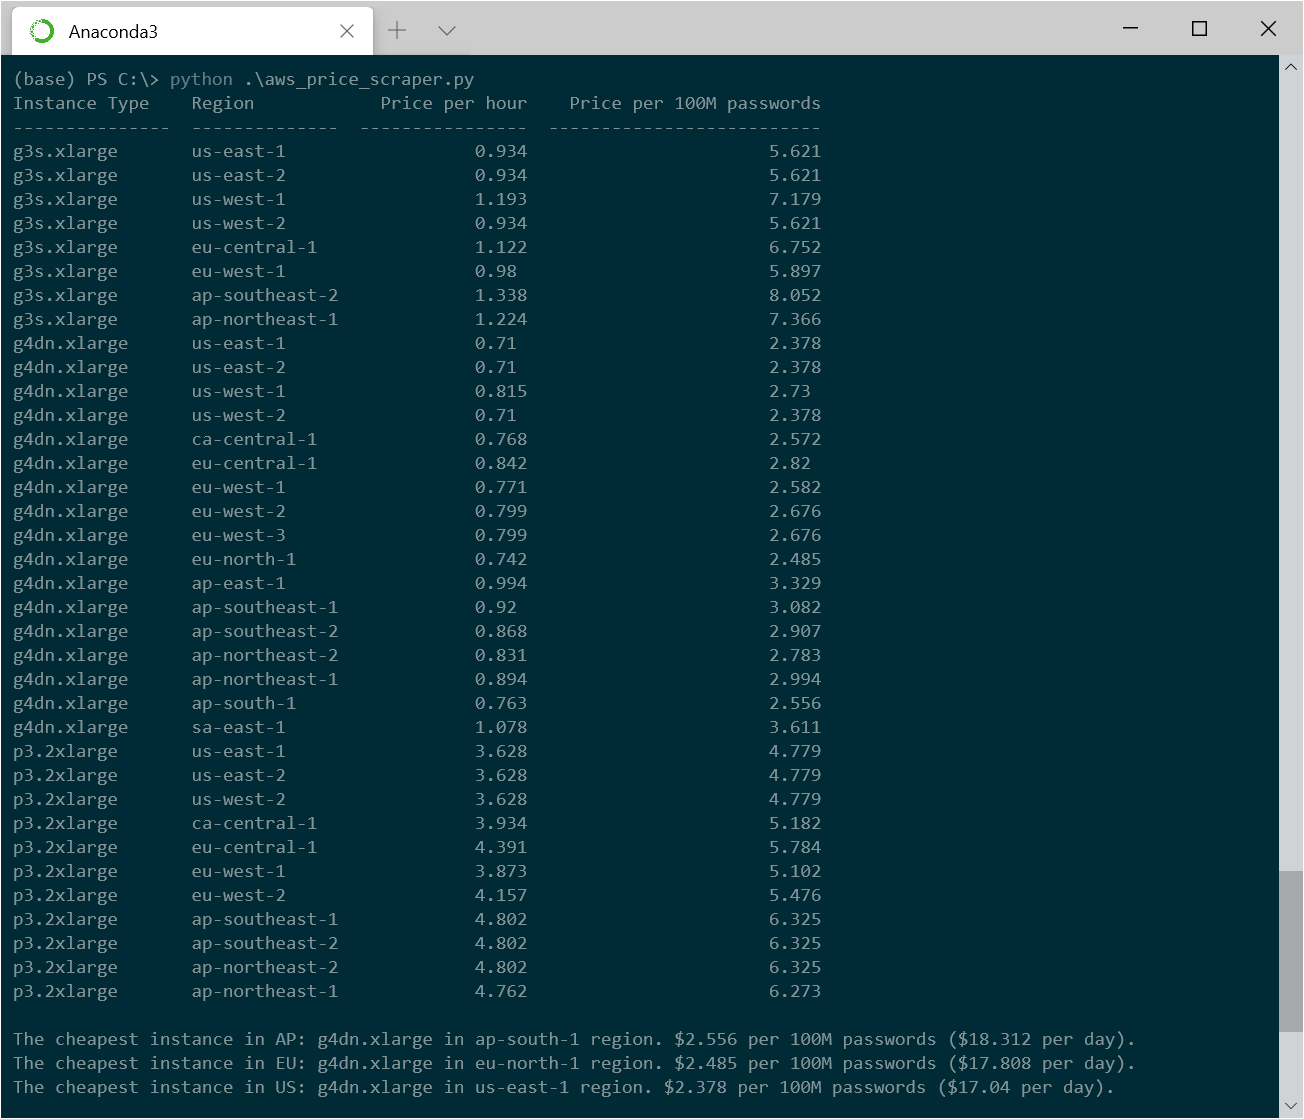
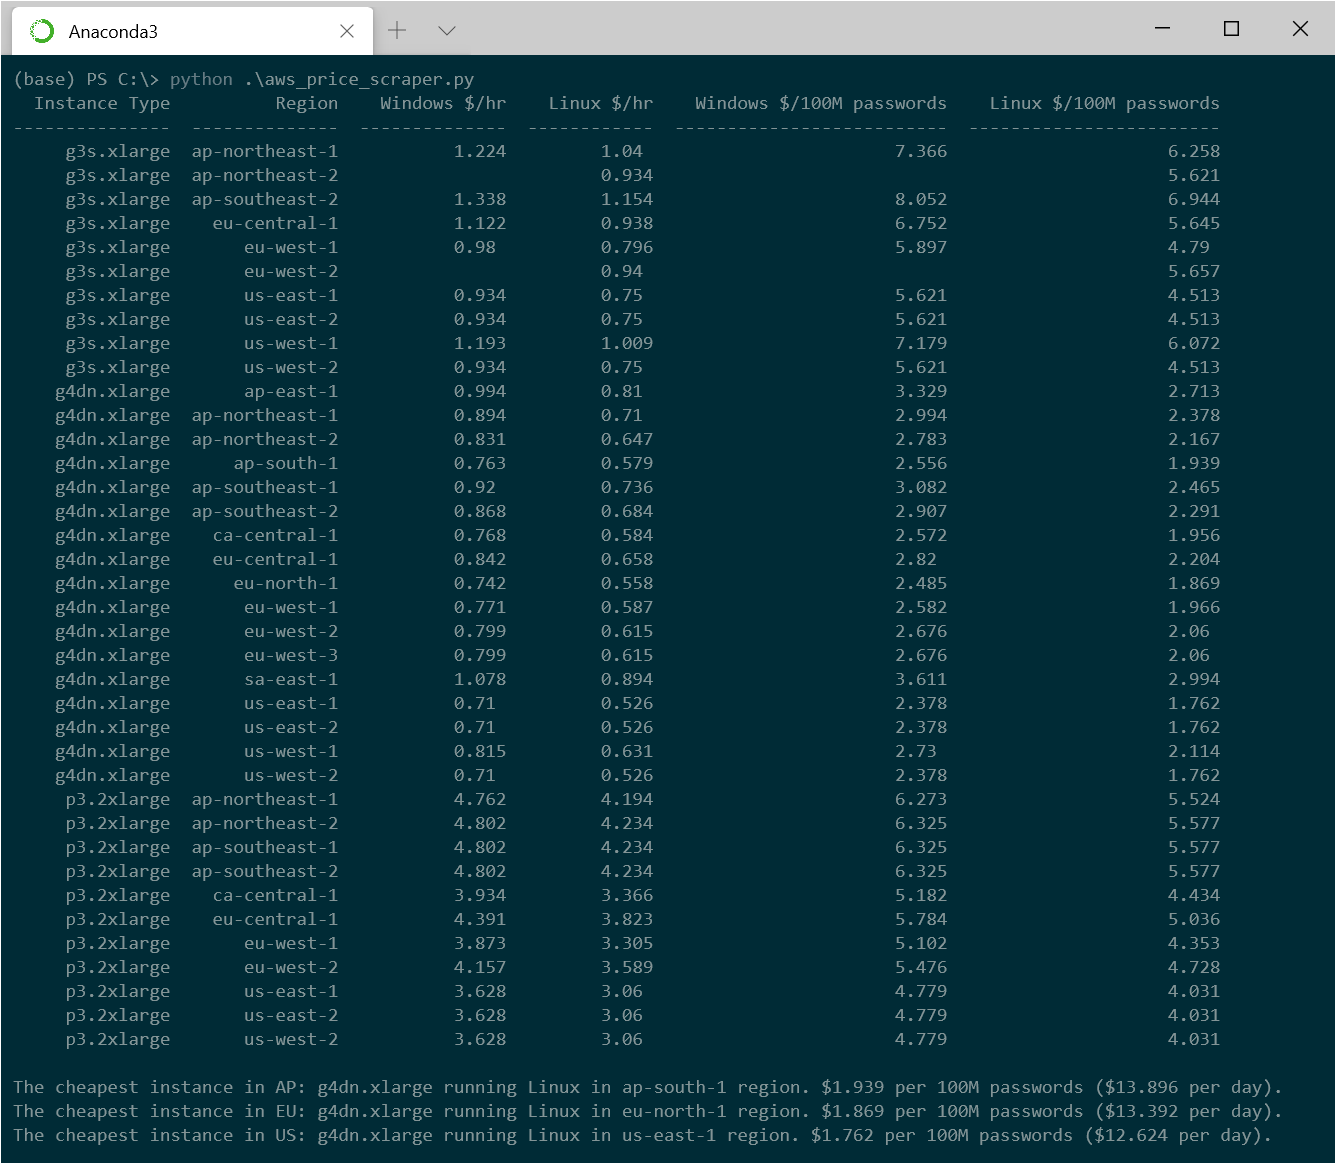
Added support for Linux-based instances

diff --git a/aws_price_scraper.py b/aws_price_scraper.py
@@ -14,7 +14,7 @@ except:
 	print('Install tabulate with "pip3 install tabulate"')
 	quit()
 
-def get_prices(AMI, instanceType, performance):
+def get_prices(instanceType, OS, AMI, performance):
 	
 	req = urllib.request.Request(
 		AMI, 
@@ -25,53 +25,99 @@ def get_prices(AMI, instanceType, performance):
 	)
 	
 	page = urllib.request.urlopen(req)
-	
 	page_content = page.read().decode('utf-8')
-	
 	cd = page_content[page_content.find('/*<![CDATA[*/') + 13:page_content.find('/*]]>*/',page_content.find('/*<![CDATA[*/') + 13)]
-	
 	productId = cd[cd.find('productId: "') + 12:cd.find('"',cd.find('productId: "') + 12)]
-	
 	hjson_string = cd[cd.find('var awsmpInitialState = ') + 24:cd.find('};',cd.find('var awsmpInitialState = ') + 24) + 1]
-	
 	hjson_dict = hjson.loads(hjson_string)
-	
-	prices = {}
 	
 	for region in hjson_dict['offerIon']['offer']['pricing']['regions']:
 		for idx, row in enumerate(hjson_dict['offerIon']['offer']['pricing']['regions'][region][productId]['hourly']['displayElements']['properties']['rows']):
 			if hjson_dict['offerIon']['offer']['pricing']['regions'][region][productId]['hourly']['displayElements']['properties']['rows'][idx]['instanceType'] == instanceType:
 				hourly_rate = float(hjson_dict['offerIon']['offer']['pricing']['regions'][region][productId]['hourly']['displayElements']['properties']['rows'][idx]['totalRate'])
-				results.append([instanceType, region, hourly_rate, round((100000000/performance)*(hourly_rate/3600), 3)])
+				instanceRegion = instanceType + region
+				try:
+					idx = [instanceRegion for instanceRegion, InstanceType, Region, WindowsHourly, LinuxHourly, Windows100M, Linux100M in results].index(instanceRegion)
+					if OS == 'Windows':
+						results[idx][3] = hourly_rate
+						results[idx][5] = round((100000000/performance)*(hourly_rate/3600), 3)
+					else:
+						results[idx][4] = hourly_rate
+						results[idx][6] = round((100000000/performance)*(hourly_rate/3600), 3)
+				except:
+					if OS == 'Windows':
+						results.append([instanceRegion, instanceType, region, hourly_rate, '', round((100000000/performance)*(hourly_rate/3600), 3), ''])
+					else:
+						results.append([instanceRegion, instanceType, region, '', hourly_rate, '', round((100000000/performance)*(hourly_rate/3600), 3)])
 
-results_headers = ['Instance Type', 'Region', 'Price per hour', 'Price per 100M passwords']
+results_headers = ['Instance Type', 'Region', 'Windows $/hr', 'Linux $/hr', 'Windows $/100M passwords', 'Linux $/100M passwords']
 results = []
 
-get_prices('https://aws.amazon.com/marketplace/pp/B073WHLGMC', 'g3s.xlarge',  4616)
-get_prices('https://aws.amazon.com/marketplace/pp/B07TS3S3ZH', 'g4dn.xlarge',  8293)
-get_prices('https://aws.amazon.com/marketplace/pp/B07TS3S3ZH', 'p3.2xlarge',  21088)
+instances = [
+#Instance Type, OS, AMI link, Performance (passwords per second when cracking a Word 2019 document)
+['g3s.xlarge', 'Windows', 'https://aws.amazon.com/marketplace/pp/B073WHLGMC', 4616],
+['g3s.xlarge', 'Linux', 'https://aws.amazon.com/marketplace/pp/B07CQ33QKV', 4616],
+['g4dn.xlarge', 'Windows', 'https://aws.amazon.com/marketplace/pp/B07TS3S3ZH', 8293],
+['g4dn.xlarge', 'Linux', 'https://aws.amazon.com/marketplace/pp/B07YV3B14W', 8293],
+['p3.2xlarge', 'Linux', 'https://aws.amazon.com/marketplace/pp/B07CQ33QKV', 21088],
+['p3.2xlarge', 'Windows', 'https://aws.amazon.com/marketplace/pp/B07TS3S3ZH', 21088]
+]
 
-print(tabulate(results, headers = results_headers))
+for instance in instances:
+	get_prices(instance[0], instance[1], instance[2], instance[3], )
 
-index_ap = 0
-index_eu = 0
-index_us = 0
-cheapest_ap = 999
-cheapest_eu = 999
-cheapest_us = 999
+results = [i[1:] for i in results]
+results.sort()
+
+print(tabulate(results, headers = results_headers, stralign = 'decimal'))
+
+ap_cheapest_os = ''
+eu_cheapest_os = ''
+us_cheapest_os = ''
+ap_cheapest_index = 0
+eu_cheapest_index = 0
+us_cheapest_index = 0
+ap_cheapest_100Mprice = 999
+eu_cheapest_100Mprice = 999
+us_cheapest_100Mprice = 999
+ap_cheapest_hourlyprice = 0
+eu_cheapest_hourlyprice = 0
+us_cheapest_hourlyprice = 0
+
 
 for i, x in enumerate(results):
-	if (x[1][:2] == 'ap') and (x[3] < cheapest_ap):
-		cheapest_ap = x[3]
-		index_ap = i
-	if (x[1][:2] == 'eu') and (x[3] < cheapest_eu):
-		cheapest_eu = x[3]
-		index_eu = i
-	if (x[1][:2] == 'us') and (x[3] < cheapest_us):
-		cheapest_us = x[3]
-		index_us = i
+	if (x[1][:2] == 'ap') and (x[4] != '') and (x[4] < ap_cheapest_100Mprice):
+		ap_cheapest_os = 'Windows'
+		ap_cheapest_index = i
+		ap_cheapest_100Mprice = x[4]
+		ap_cheapest_hourlyprice = x[2]
+	if (x[1][:2] == 'ap') and (x[5] != '') and (x[5] < ap_cheapest_100Mprice):
+		ap_cheapest_os = 'Linux'
+		ap_cheapest_index = i
+		ap_cheapest_100Mprice = x[5]
+		ap_cheapest_hourlyprice = x[3]
+	if (x[1][:2] == 'eu') and (x[4] != '') and (x[4] < eu_cheapest_100Mprice):
+		eu_cheapest_os = 'Windows'
+		eu_cheapest_index = i
+		eu_cheapest_100Mprice = x[4]
+		eu_cheapest_hourlyprice = x[2]
+	if (x[1][:2] == 'eu') and (x[5] != '') and (x[5] < eu_cheapest_100Mprice):
+		eu_cheapest_os = 'Linux'
+		eu_cheapest_index = i
+		eu_cheapest_100Mprice = x[5]
+		eu_cheapest_hourlyprice = x[3]
+	if (x[1][:2] == 'us') and (x[4] != '') and (x[4] < us_cheapest_100Mprice):
+		us_cheapest_os = 'Windows'
+		us_cheapest_index = i
+		us_cheapest_100Mprice = x[4]
+		us_cheapest_hourlyprice = x[2]
+	if (x[1][:2] == 'us') and (x[5] != '') and (x[5] < us_cheapest_100Mprice):
+		us_cheapest_os = 'Linux'
+		us_cheapest_index = i
+		us_cheapest_100Mprice = x[5]
+		us_cheapest_hourlyprice = x[3]
 
 print()
-print('The cheapest instance in AP: '+str(results[index_ap][0])+' in '+str(results[index_ap][1])+' region. $'+str(results[index_ap][3])+' per 100M passwords ($'+str(results[index_ap][2]*24)+' per day).')
-print('The cheapest instance in EU: '+str(results[index_eu][0])+' in '+str(results[index_eu][1])+' region. $'+str(results[index_eu][3])+' per 100M passwords ($'+str(results[index_eu][2]*24)+' per day).')
-print('The cheapest instance in US: '+str(results[index_us][0])+' in '+str(results[index_us][1])+' region. $'+str(results[index_us][3])+' per 100M passwords ($'+str(results[index_us][2]*24)+' per day).')
+print('The cheapest instance in AP: '+str(results[ap_cheapest_index][0])+' running '+ap_cheapest_os+' in '+str(results[ap_cheapest_index][1])+' region. $'+str(ap_cheapest_100Mprice)+' per 100M passwords ($'+str(round(ap_cheapest_hourlyprice*24, 3))+' per day).')
+print('The cheapest instance in EU: '+str(results[eu_cheapest_index][0])+' running '+eu_cheapest_os+' in '+str(results[eu_cheapest_index][1])+' region. $'+str(eu_cheapest_100Mprice)+' per 100M passwords ($'+str(round(eu_cheapest_hourlyprice*24, 3))+' per day).')
+print('The cheapest instance in US: '+str(results[us_cheapest_index][0])+' running '+us_cheapest_os+' in '+str(results[us_cheapest_index][1])+' region. $'+str(us_cheapest_100Mprice)+' per 100M passwords ($'+str(round(us_cheapest_hourlyprice*24, 3))+' per day).')
